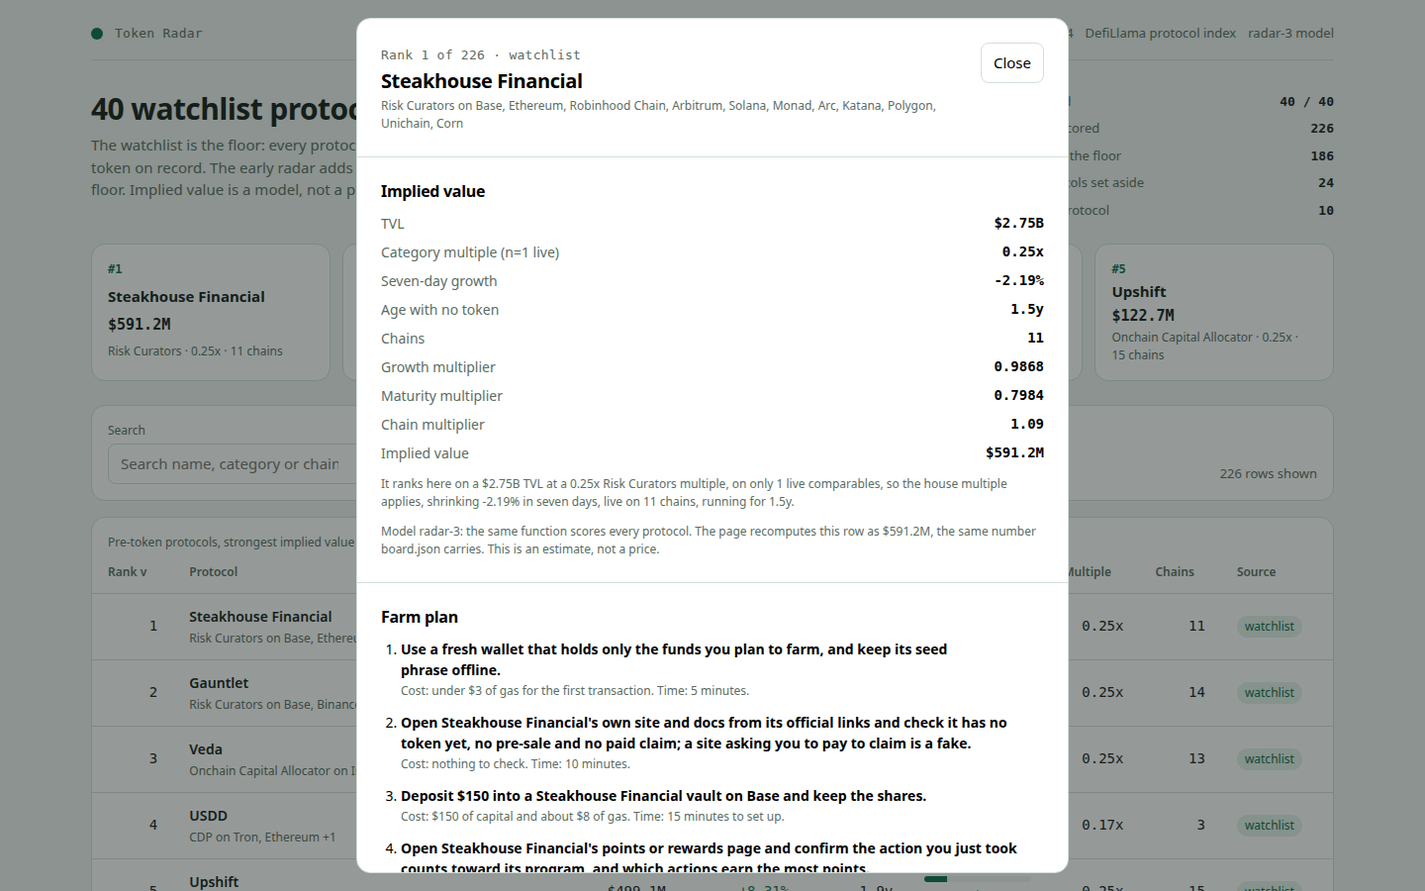
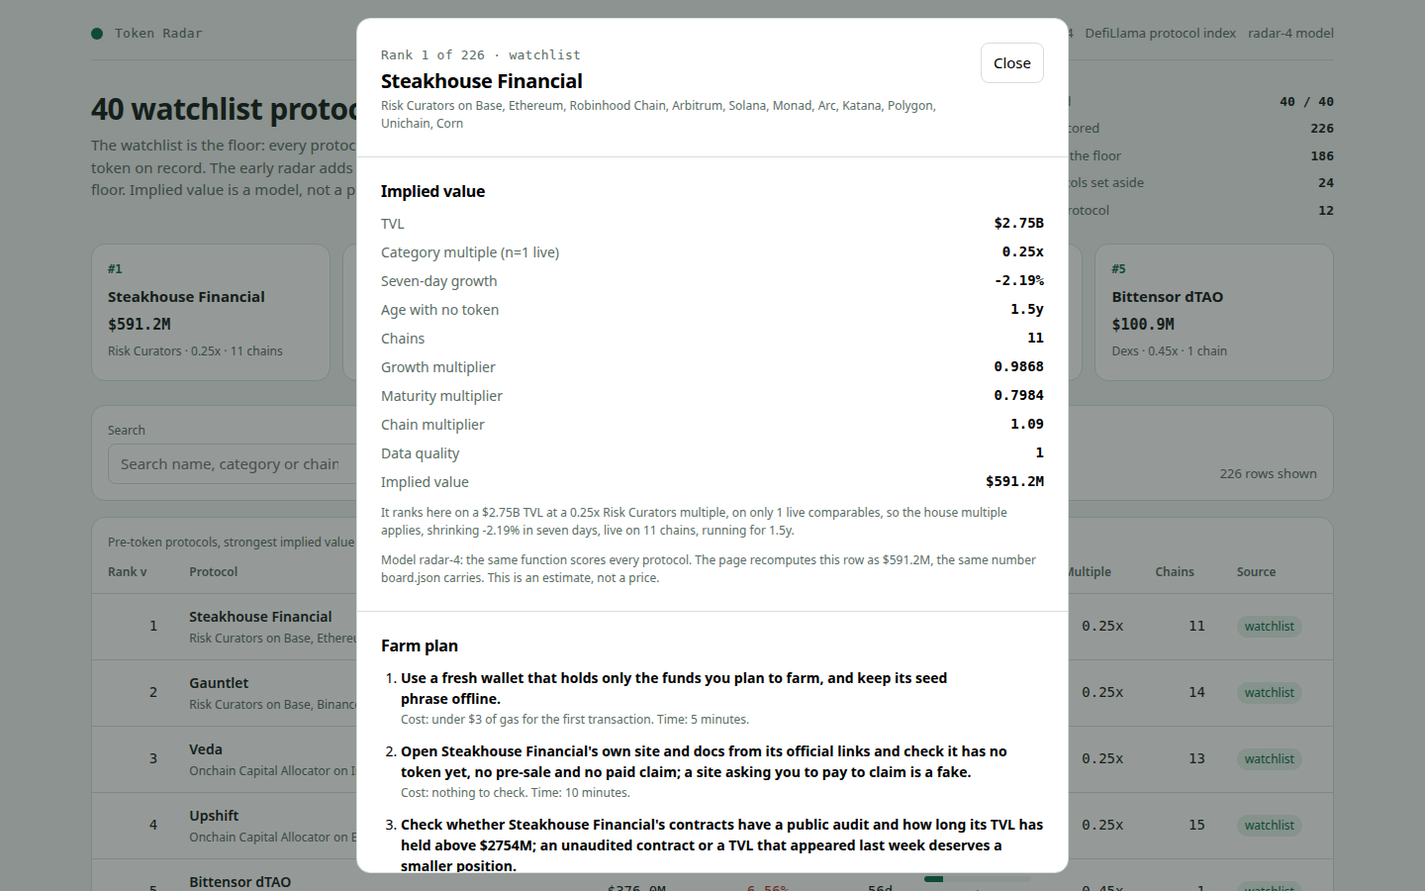
radar-4: TVL-weighted category multiples, data-quality discount, 12-step farm plans, biggest-movers panel

diff --git a/lib/model.ts b/lib/model.ts
@@ -1,4 +1,4 @@
-// Token Radar's model, radar-3: one snapshot of the protocol universe in, one ranked board out.
+// Token Radar's model, radar-4: one snapshot of the protocol universe in, one ranked board out.
 //
 // The board's floor is the watchlist: every slug in it is ranked. Below the floor, the early
 // radar adds pre-token protocols by TVL, up to EARLY_ROWS. A protocol is pre-token when its
@@ -22,7 +22,10 @@
 //   chains     1 + 0.03 x min(chains - 1, 3): a protocol live on several chains has more
 //              than one home to farm and more than one snapshot to be counted in, so each
 //              extra chain is worth a small premium, capped at three.
-//   implied    max(1, round(base x growthMult x maturity x chains))
+//   quality    0.97 when the snapshot carries no seven-day change for the protocol, 1
+//              otherwise: a row scored on missing data is worth slightly less than one
+//              scored on a full record, and the dashboard says so on the row.
+//   implied    max(1, round(base x growthMult x maturity x chains x quality))
 //
 // A single flat multiple would let the biggest TVL in the cheapest category win by default.
 // The snapshot itself says categories do not trade alike: before winsorising, the live-token
@@ -37,6 +40,14 @@
 // check and a second-chain repeat, the two steps farmers most often skip; and the dashboard
 // now prints the live-comparable count behind every category multiple, so a multiple resting
 // on 2 protocols is not mistaken for one resting on 20.
+//
+// What radar-4 changes over radar-3: the category multiple is now a TVL-weighted median
+// instead of a plain median, so a category is priced by the protocols that hold its money
+// rather than by its smallest names; a missing seven-day change costs the row 3% instead
+// of being silently treated as zero growth; the farm plan grows from 10 steps to 12,
+// adding an audit check and a snapshot-calendar reminder; and the dashboard gains a
+// biggest-movers panel, so a farmer can see at a glance which ranked protocols are gaining
+// TVL fastest and which are bleeding it.
 
 /** One protocol entry, exactly the ten fields the sealed input carries. */
 export interface SnapshotProtocol {
@@ -73,6 +84,7 @@ export interface ModelConstants {
   unknown_age_days: number;
   chain_bonus: number;
   chain_bonus_cap: number;
+  data_quality_discount: number;
 }
 
 export const MODEL: ModelConstants = {
@@ -86,10 +98,11 @@ export const MODEL: ModelConstants = {
   unknown_age_days: 365,
   chain_bonus: 0.03,
   chain_bonus_cap: 0.09,
+  data_quality_discount: 0.97,
 };
 
 /** The model's version label: the dashboard names it. */
-export const MODEL_VERSION = 'radar-3';
+export const MODEL_VERSION = 'radar-4';
 
 /** The winsorising band for a category multiple, and how many live comparables earn one. */
 export const MULT_MIN = 0.1;
@@ -131,6 +144,7 @@ export interface BoardRow {
     growth_multiplier: number;
     maturity_multiplier: number;
     chain_multiplier: number;
+    data_quality_multiplier: number;
     age_days: number | null;
   };
   farm_steps: string[];
@@ -154,6 +168,7 @@ export interface RadarRow {
   growth_multiplier: number;
   maturity_multiplier: number;
   chain_multiplier: number;
+  data_quality_multiplier: number;
 }
 
 /** A live-token protocol: the market's own value, not a model's. */
@@ -251,18 +266,53 @@ export function isRankable(p: SnapshotProtocol): boolean {
 }
 
 /**
- * Every category's multiple, from the snapshot's own live-token protocols: the median
- * market-cap / TVL of that category's live protocols, winsorised to [MULT_MIN, MULT_MAX],
- * together with how many live comparables each multiple rests on. Entries with no market
- * cap — a dead or untracked token — are left out: they would drag every category toward
- * zero and say nothing about what a trading protocol there is worth. A category with fewer
- * than MIN_COMPS live comparables gets no entry here and falls back to the house multiple.
- * Multiples are rounded to 3 decimals so the board and the dashboard print the same number.
+ * Every category's multiple, from the snapshot's own live-token protocols: the TVL-weighted
+ * median market-cap / TVL of that category's live protocols, winsorised to [MULT_MIN,
+ * MULT_MAX], together with how many live comparables each multiple rests on. Weighting by
+ * TVL means a category is priced by the protocols that hold its money: a plain median lets
+ * a dozen tiny protocols outvote the one that holds 90% of the category's TVL. Entries
+ * with no market cap — a dead or untracked token — are left out: they would drag every
+ * category toward zero and say nothing about what a trading protocol there is worth. A
+ * category with fewer than MIN_COMPS live comparables gets no entry here and falls back to
+ * the house multiple. Multiples are rounded to 3 decimals so the board and the dashboard
+ * print the same number.
  */
 export function categoryStats(
   snapshot: Snapshot,
   model: ModelConstants = MODEL,
 ): { multiples: Map<string, number>; comps: Map<string, number> } {
+  const byCat = new Map<string, { ratio: number; tvl: number }[]>();
+  for (const p of snapshot.protocols) {
+    if (p.mcap_usd === null || p.category === null || p.category === 'CEX') continue;
+    if (!(p.tvl_usd > 0) || !(p.mcap_usd > 0)) continue;
+    const list = byCat.get(p.category) ?? [];
+    list.push({ ratio: p.mcap_usd / p.tvl_usd, tvl: p.tvl_usd });
+    byCat.set(p.category, list);
+  }
+  const multiples = new Map<string, number>();
+  const comps = new Map<string, number>();
+  for (const [cat, entries] of byCat) {
+    comps.set(cat, entries.length);
+    if (entries.length < MIN_COMPS) continue;
+    entries.sort((a, b) => a.ratio - b.ratio);
+    const total = entries.reduce((n, e) => n + e.tvl, 0);
+    let acc = 0;
+    let weighted = entries[entries.length - 1]!.ratio;
+    for (const e of entries) {
+      acc += e.tvl;
+      if (acc >= total / 2) {
+        weighted = e.ratio;
+        break;
+      }
+    }
+    const m = Math.min(MULT_MAX, Math.max(MULT_MIN, weighted));
+    multiples.set(cat, Math.round(m * 1000) / 1000);
+  }
+  return { multiples, comps };
+}
+
+/** The plain median of a category's ratios, for the dashboard's comparison note. */
+export function categoryMedianMultiple(snapshot: Snapshot): Map<string, number> {
   const byCat = new Map<string, number[]>();
   for (const p of snapshot.protocols) {
     if (p.mcap_usd === null || p.category === null || p.category === 'CEX') continue;
@@ -271,16 +321,13 @@ export function categoryStats(
     list.push(p.mcap_usd / p.tvl_usd);
     byCat.set(p.category, list);
   }
-  const multiples = new Map<string, number>();
-  const comps = new Map<string, number>();
+  const out = new Map<string, number>();
   for (const [cat, ratios] of byCat) {
-    comps.set(cat, ratios.length);
     if (ratios.length < MIN_COMPS) continue;
     ratios.sort((a, b) => a - b);
-    const m = Math.min(MULT_MAX, Math.max(MULT_MIN, middle(ratios)));
-    multiples.set(cat, Math.round(m * 1000) / 1000);
+    out.set(cat, Math.round(Math.min(MULT_MAX, Math.max(MULT_MIN, middle(ratios))) * 1000) / 1000);
   }
-  return { multiples, comps };
+  return out;
 }
 
 /** Every category's multiple, from the snapshot's own live-token protocols. */
@@ -309,7 +356,7 @@ export function impliedValue(
   asOf: string,
   model: ModelConstants,
   multiples?: Map<string, number>,
-): { implied: number; growthPct: number; growthMult: number; maturityMult: number; chainMult: number; age: number | null; multiple: number } {
+): { implied: number; growthPct: number; growthMult: number; maturityMult: number; chainMult: number; qualityMult: number; age: number | null; multiple: number } {
   const age = ageDays(asOf, protocol.listed_at);
   const growthPct = Math.min(model.growth_cap, Math.max(model.growth_floor, numOr(protocol.change_7d, 0)));
   const growthMult = 1 + (growthPct / 100) * model.growth_weight;
@@ -317,9 +364,10 @@ export function impliedValue(
   const maturityMult =
     model.maturity_floor + (Math.min(Math.max(ageForModel, 0), model.maturity_days) / model.maturity_days) * model.maturity_range;
   const chainMult = chainMultiplier(protocol, model);
+  const qualityMult = protocol.change_7d === null ? model.data_quality_discount : 1;
   const multiple = multiples === undefined ? model.base_multiple : multipleFor(protocol, multiples, model);
-  const implied = Math.max(1, Math.round(protocol.tvl_usd * multiple * growthMult * maturityMult * chainMult));
-  return { implied, growthPct, growthMult, maturityMult, chainMult, age, multiple };
+  const implied = Math.max(1, Math.round(protocol.tvl_usd * multiple * growthMult * maturityMult * chainMult * qualityMult));
+  return { implied, growthPct, growthMult, maturityMult, chainMult, qualityMult, age, multiple };
 }
 
 /** The snapshot's protocol by slug. */
@@ -374,14 +422,15 @@ export function stepText(step: FarmStep): string {
 }
 
 /**
- * A protocol's farm plan: ten steps, each an action with a cost and a time, derived from the
+ * A protocol's farm plan: twelve steps, each an action with a cost and a time, derived from the
  * protocol's own record (category, chains, TVL, age) — never from a hand-written list of names.
- * Three of the steps are the ones that lose farmers money when they are missing: verify the
+ * Four of the steps are the ones that lose farmers money when they are missing: verify the
  * protocol before any deposit, because a fake site or a paid claim is the usual trap; check
- * the points program before farming, because an action the program does not count is wasted
- * effort; and plan the exit before the token exists, unwinding in tranches instead of one
- * market sell. Multi-chain protocols get a repeat step on their second chain, because a
- * second chain is a second snapshot to be counted in.
+ * the protocol's audits, because an unaudited contract holding the farm's capital is the
+ * risk no points program repays; check the points program before farming, because an action
+ * the program does not count is wasted effort; and plan the exit before the token exists,
+ * unwinding in tranches instead of one market sell. Multi-chain protocols get a repeat step
+ * on their second chain, because a second chain is a second snapshot to be counted in.
  */
 export function farmSteps(p: SnapshotProtocol, age: number | null): FarmStep[] {
   const chain = chainOf(p);
@@ -396,6 +445,11 @@ export function farmSteps(p: SnapshotProtocol, age: number | null): FarmStep[] {
     },
     {
       text: `Open ${p.name}'s own site and docs from its official links and check it has no token yet, no pre-sale and no paid claim; a site asking you to pay to claim is a fake.`,
+      cost: 'nothing to check',
+      time: '10 minutes',
+    },
+    {
+      text: `Check whether ${p.name}'s contracts have a public audit and how long its TVL has held above $${Math.round(p.tvl_usd / 1e6)}M; an unaudited contract or a TVL that appeared last week deserves a smaller position.`,
       cost: 'nothing to check',
       time: '10 minutes',
     },
@@ -439,6 +493,11 @@ export function farmSteps(p: SnapshotProtocol, age: number | null): FarmStep[] {
       text: `Plan the exit now: when the token launches, unwind in two or three tranches over a week instead of selling everything in one trade.`,
       cost: 'about $2 of gas per tranche',
       time: '10 minutes to set the plan',
+    },
+    {
+      text: `Put a reminder in your calendar for the next snapshot date, so the position is still open and active when it is taken.`,
+      cost: 'nothing',
+      time: '2 minutes',
     },
     {
       text: `Write the wallet, the dates and every transaction in a farm log so you can repeat the position or unwind it.`,
@@ -493,6 +552,7 @@ export function buildBoard(snapshot: Snapshot, model: ModelConstants = MODEL): B
       growth_multiplier: r4(s.growthMult),
       maturity_multiplier: r4(s.maturityMult),
       chain_multiplier: r4(s.chainMult),
+      data_quality_multiplier: r4(s.qualityMult),
       age_days: s.age,
     },
     farm_steps: farmSteps(s.p, s.age).map(stepText),
@@ -535,6 +595,7 @@ export function radarRow(row: BoardRow, watchlist: Set<string>): RadarRow {
     growth_multiplier: row.model.growth_multiplier,
     maturity_multiplier: row.model.maturity_multiplier,
     chain_multiplier: row.model.chain_multiplier,
+    data_quality_multiplier: row.model.data_quality_multiplier,
   };
 }
 

diff --git a/dashboard/app.js b/dashboard/app.js
@@ -1,4 +1,4 @@
-// Token Radar's dashboard, radar-3. It reads window.RADAR (written beside dashboard/ by
+// Token Radar's dashboard, radar-4. It reads window.RADAR (written beside dashboard/ by
 // main.ts) and renders the ranked board, a filterable table, a top-five strip, a per-protocol
 // detail dialog with the model's own inputs and the protocol's farm plan, and the live-token
 // view. No network: every byte it shows is in data.js. No framework, no fetch.
@@ -67,7 +67,8 @@
     var growthMult = 1 + (growth / 100) * model.growth_weight;
     var age = row.age_days == null ? model.unknown_age_days : row.age_days;
     var maturity = model.maturity_floor + (Math.min(Math.max(age, 0), model.maturity_days) / model.maturity_days) * model.maturity_range;
-    return Math.max(1, Math.round(row.tvl_usd * multipleOf(row) * growthMult * maturity * chainMultOf(row, model)));
+    var quality = row.change_7d == null ? model.data_quality_discount : 1;
+    return Math.max(1, Math.round(row.tvl_usd * multipleOf(row) * growthMult * maturity * chainMultOf(row, model) * quality));
   }
 
   /** One sentence saying why this row ranks where it does, from its own inputs. */
@@ -134,6 +135,7 @@
     return [
       { text: 'Use a fresh wallet that holds only the funds you plan to farm, and keep its seed phrase offline.', cost: 'under $3 of gas for the first transaction', time: '5 minutes' },
       { text: "Open " + p.name + "'s own site and docs from its official links and check it has no token yet, no pre-sale and no paid claim; a site asking you to pay to claim is a fake.", cost: 'nothing to check', time: '10 minutes' },
+      { text: "Check whether " + p.name + "'s contracts have a public audit and how long its TVL has held above $" + Math.round(p.tvl_usd / 1e6) + "M; an unaudited contract or a TVL that appeared last week deserves a smaller position.", cost: 'nothing to check', time: '10 minutes' },
       { text: actionFor(p, capital, chain), cost: '$' + capital + ' of capital and about $' + (capital >= 150 ? 8 : 4) + ' of gas', time: '15 minutes to set up' },
       { text: "Open " + p.name + "'s points or rewards page and confirm the action you just took counts toward its program, and which actions earn the most points.", cost: 'nothing to check', time: '10 minutes' },
       { text: 'Make one qualifying action each week, such as a deposit, a borrow, a swap or a vote.', cost: 'about $2 of gas a week', time: '10 minutes a week' },
@@ -141,6 +143,7 @@
       second,
       { text: "Before you withdraw, open the protocol's own points or rewards page and claim only from the link it publishes.", cost: 'no fee to check, and never pay to claim', time: '10 minutes' },
       { text: 'Plan the exit now: when the token launches, unwind in two or three tranches over a week instead of selling everything in one trade.', cost: 'about $2 of gas per tranche', time: '10 minutes to set the plan' },
+      { text: 'Put a reminder in your calendar for the next snapshot date, so the position is still open and active when it is taken.', cost: 'nothing', time: '2 minutes' },
       { text: 'Write the wallet, the dates and every transaction in a farm log so you can repeat the position or unwind it.', cost: 'nothing but the log', time: '5 minutes' }
     ].map(stepText);
   }
@@ -240,7 +243,7 @@
         el('div', { class: 'fact' }, el('span', { text: 'Pre-token rows scored' }), el('b', { text: String(DATA.board_size) })),
         el('div', { class: 'fact' }, el('span', { text: 'Early rows below the floor' }), el('b', { text: String(DATA.early_size) })),
         el('div', { class: 'fact' }, el('span', { text: 'Live-token protocols set aside' }), el('b', { text: String(DATA.live_size) })),
-        el('div', { class: 'fact' }, el('span', { text: 'Farm steps per protocol' }), el('b', { text: '10' }))
+        el('div', { class: 'fact' }, el('span', { text: 'Farm steps per protocol' }), el('b', { text: '12' }))
       )
     );
   }
@@ -382,14 +385,37 @@
       el('h2', { text: 'How implied value is computed' }),
       el('p', { class: 'sub', text: 'Every row is scored by one function of the snapshot figures. No protocol name is special-cased, and no row is hand-picked.' }),
       el('div', { class: 'formula' },
-        'implied = round( tvl_usd x category_multiple x (1 + clamp(change_7d, ' + m.growth_floor + ', ' + m.growth_cap + ') / 100 x ' + m.growth_weight + ') x (' + m.maturity_floor + ' + min(age_days, ' + m.maturity_days + ') / ' + m.maturity_days + ' x ' + m.maturity_range + ') x (1 + min(chains - 1, 3) x ' + m.chain_bonus + ') )'
+        'implied = round( tvl_usd x category_multiple x (1 + clamp(change_7d, ' + m.growth_floor + ', ' + m.growth_cap + ') / 100 x ' + m.growth_weight + ') x (' + m.maturity_floor + ' + min(age_days, ' + m.maturity_days + ') / ' + m.maturity_days + ' x ' + m.maturity_range + ') x (1 + min(chains - 1, 3) x ' + m.chain_bonus + ') x data_quality )'
       ),
       el('p', { class: 'sub', text: 'TVL and seven-day growth come from the snapshot. Age is the time since the protocol was first listed, the best record of how long it has run with no token; an unlisted age uses ' + m.unknown_age_days + ' days. The growth clamp is asymmetric on purpose: a protocol losing TVL is marked down harder than a growing one is marked up, because a launch prices momentum and a shrinking pool prices flight. The chain premium is small by design — at most 1.09x — because extra chains are a second chance to be counted, not a second protocol.' }),
-      el('p', { class: 'sub', text: 'Category multiple: the median market-cap / TVL of that category\u2019s live-token protocols in this snapshot, winsorised to 0.10–0.45. A category with fewer than 3 live comparables uses the house multiple 0.25. The count beside each multiple is how many live protocols it rests on — a multiple built on 20 comparables is firmer than one built on 3.' }),
+      el('p', { class: 'sub', text: 'Category multiple: the TVL-weighted median market-cap / TVL of that category\u2019s live-token protocols in this snapshot, winsorised to 0.10–0.45 — weighted so the protocols holding the category\u2019s money price it, not its smallest names. A category with fewer than 3 live comparables uses the house multiple 0.25. The count beside each multiple is how many live protocols it rests on — a multiple built on 20 comparables is firmer than one built on 3. Data quality is 0.97 when the snapshot carries no seven-day change for a protocol, 1 otherwise: a row scored on missing data is worth slightly less, and its detail dialog says so.' }),
       el('div', { class: 'mults' }, cats.map(function (c) {
         var n = comps[c];
         return el('span', { class: 'mult', text: c + ' ' + mults[c].toFixed(2) + 'x' + (typeof n === 'number' ? ' (n=' + n + ')' : '') });
       }))
+    );
+  }
+
+  /** The fastest gainers and losers on the board, by seven-day TVL change. */
+  function moversPanel() {
+    var withChange = DATA.rows.filter(function (r) { return r.change_7d !== null && isFinite(r.change_7d); });
+    if (withChange.length === 0) return null;
+    var gainers = withChange.slice().sort(function (a, b) { return b.change_7d - a.change_7d; }).slice(0, 5);
+    var losers = withChange.slice().sort(function (a, b) { return a.change_7d - b.change_7d; }).slice(0, 5);
+    function mover(r, cls) {
+      return el('button', { type: 'button', class: 'cat-card', onclick: function () { openDetail(r.slug); } },
+        el('b', { text: r.name }),
+        el('span', { class: 'sub', text: (r.category || 'Other') + ' · TVL ' + money(r.tvl_usd) }),
+        el('span', { class: 'num ' + cls, text: pct(r.change_7d) })
+      );
+    }
+    return el('section', { class: 'panel model', 'aria-label': 'Biggest movers' },
+      el('h2', { text: 'Biggest movers in seven days' }),
+      el('p', { class: 'sub', text: 'Momentum is half the model, so these are the rows whose rank moved most on the latest snapshot. A gainer here is a protocol the market is already rewarding; a loser is one the model is already marking down.' }),
+      el('h3', { text: 'Gaining TVL' }),
+      el('div', { class: 'cats' }, gainers.map(function (r) { return mover(r, 'pos'); })),
+      el('h3', { text: 'Losing TVL' }),
+      el('div', { class: 'cats' }, losers.map(function (r) { return mover(r, 'neg'); }))
     );
   }
 
@@ -445,6 +471,7 @@
         el('div', null, el('span', { text: 'Growth multiplier' }), el('b', { class: 'num', text: String(row.growth_multiplier) })),
         el('div', null, el('span', { text: 'Maturity multiplier' }), el('b', { class: 'num', text: String(row.maturity_multiplier) })),
         el('div', null, el('span', { text: 'Chain multiplier' }), el('b', { class: 'num', text: String(row.chain_multiplier) })),
+        el('div', null, el('span', { text: 'Data quality' }), el('b', { class: 'num', text: String(row.data_quality_multiplier) + (row.change_7d === null ? ' — no seven-day change on record' : '') })),
         el('div', null, el('span', { text: 'Implied value' }), el('b', { class: 'num', text: money(row.implied_value_usd) }))
       ),
       el('p', { class: 'sub', text: whyRank(row) }),
@@ -475,6 +502,7 @@
     shell.appendChild(controls());
     shell.appendChild(state.tab === 'pre-token' ? boardTable() : liveTable());
     if (state.tab === 'pre-token') {
+      shell.appendChild(moversPanel());
       shell.appendChild(categoryPanel());
       shell.appendChild(modelPanel());
     }

diff --git a/main.ts b/main.ts
@@ -1,4 +1,4 @@
-// Token Radar, radar-3 entry (Node 22, standard library only).
+// Token Radar, radar-4 entry (Node 22, standard library only).
 //
 // Run it against a sealed snapshot and it scores every pre-token protocol with the model in
 // lib/model.ts, then writes the ranked board, the dashboard data, the dashboard itself, the

diff --git a/README.md b/README.md
@@ -8,18 +8,19 @@ A token radar for pre-token protocols: it reads a sealed DefiLlama snapshot, ran
 watchlist protocol by implied value, adds the early radar below the watchlist floor, and
 renders a static dashboard with a per-protocol farm plan. Node 22, standard library only.
 
-## The model (radar-3)
+## The model (radar-4)
 
 Implied value is computed from the snapshot's own figures only:
 
 ```
-multiple   = median live-token market-cap / TVL of the protocol's category,
-             winsorised to [0.10, 0.45]; categories with fewer than 3 live
-             comparables fall back to the house multiple 0.25
+multiple   = TVL-weighted median live-token market-cap / TVL of the protocol's
+             category, winsorised to [0.10, 0.45]; categories with fewer than 3
+             live comparables fall back to the house multiple 0.25
 growth     = clamp(change_7d, -50, 100), in per cent
+quality    = 0.97 when the snapshot carries no seven-day change, else 1
 implied    = round( tvl_usd x multiple x (1 + growth / 100 x 0.6)
              x (0.6 + min(age_days, 1095) / 1095 x 0.4)
-             x (1 + min(chains - 1, 3) x 0.03) )
+             x (1 + min(chains - 1, 3) x 0.03) x quality )
 ```
 
 Three judgements sit inside that one line, and the dashboard states all three:
@@ -27,9 +28,10 @@ Three judgements sit inside that one line, and the dashboard states all three:
 1. **Categories do not trade alike.** A flat multiple would let the biggest TVL in the
    cheapest category win by default. In this snapshot the live-token medians run from about
    0.03 (liquid staking) to about 0.34 (DEXs) before winsorising, so each category is scored
-   at its own market's multiple — and the dashboard prints how many live comparables each
-   multiple rests on, so a multiple built on 20 protocols is not mistaken for one built
-   on 3.
+   at its own market's multiple — a TVL-weighted median, so the protocols holding the
+   category's money price it, not its smallest names — and the dashboard prints how many
+   live comparables each multiple rests on, so a multiple built on 20 protocols is not
+   mistaken for one built on 3.
 2. **Momentum is asymmetric.** The growth clamp is -50/+100 with weight 0.6: a protocol
    losing TVL fast is marked down harder than a growing one is marked up, because a token
    launch prices momentum and a shrinking pool prices flight.
@@ -40,12 +42,13 @@ Three judgements sit inside that one line, and the dashboard states all three:
 No protocol name is ever special-cased: the same function scores every row.
 
 The board covers all 40 watchlist protocols plus 186 early rows below the $50M floor
-(226 rows), each with a 10-step farm plan derived from its category, chains, TVL and age —
-including a verify-before-you-deposit step, a points-program check, a second-chain repeat
-for multi-chain protocols, and an exit plan in tranches. Live-token protocols are set
-aside with their market caps shown, never mixed into the ranking. Every detail dialog
-says in one sentence why its protocol ranks where it does, and recomputes its implied
-value from the snapshot figures so a stale board cannot hide.
+(226 rows), each with a 12-step farm plan derived from its category, chains, TVL and age —
+including a verify-before-you-deposit step, an audit check, a points-program check, a
+second-chain repeat for multi-chain protocols, and an exit plan in tranches. Live-token
+protocols are set aside with their market caps shown, never mixed into the ranking. Every
+detail dialog says in one sentence why its protocol ranks where it does, and recomputes
+its implied value from the snapshot figures so a stale board cannot hide. A
+biggest-movers panel shows the fastest gainers and losers in seven-day TVL change.
 
 ## Run it
 
